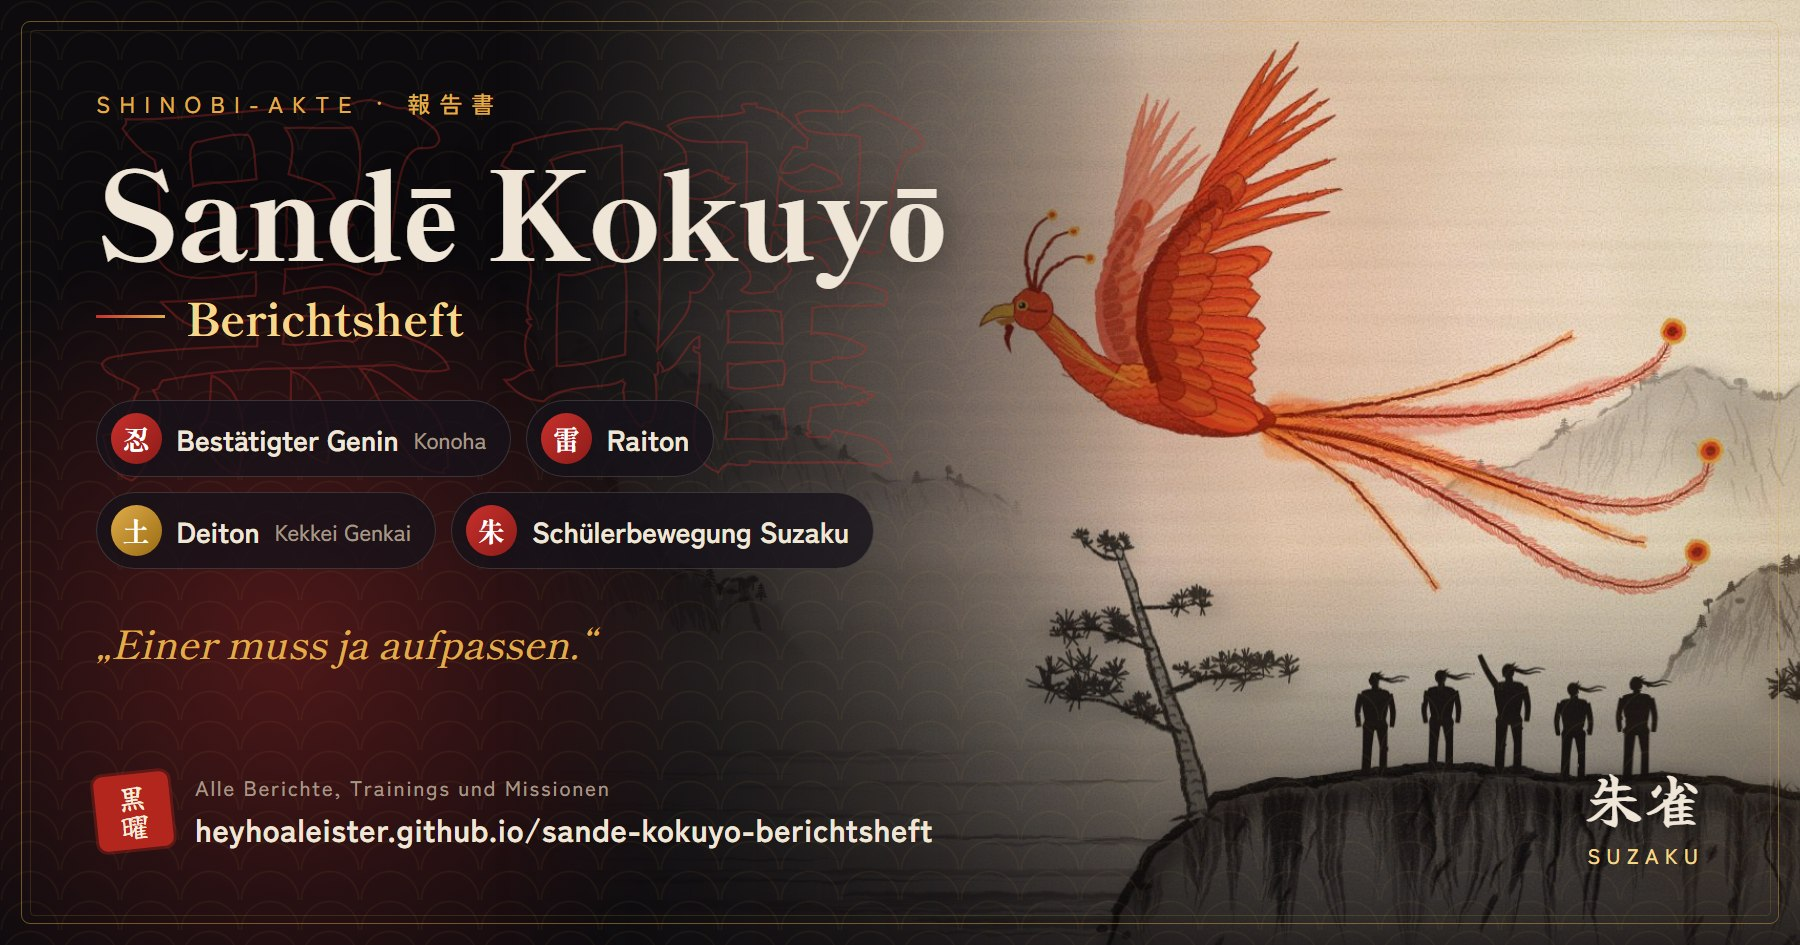
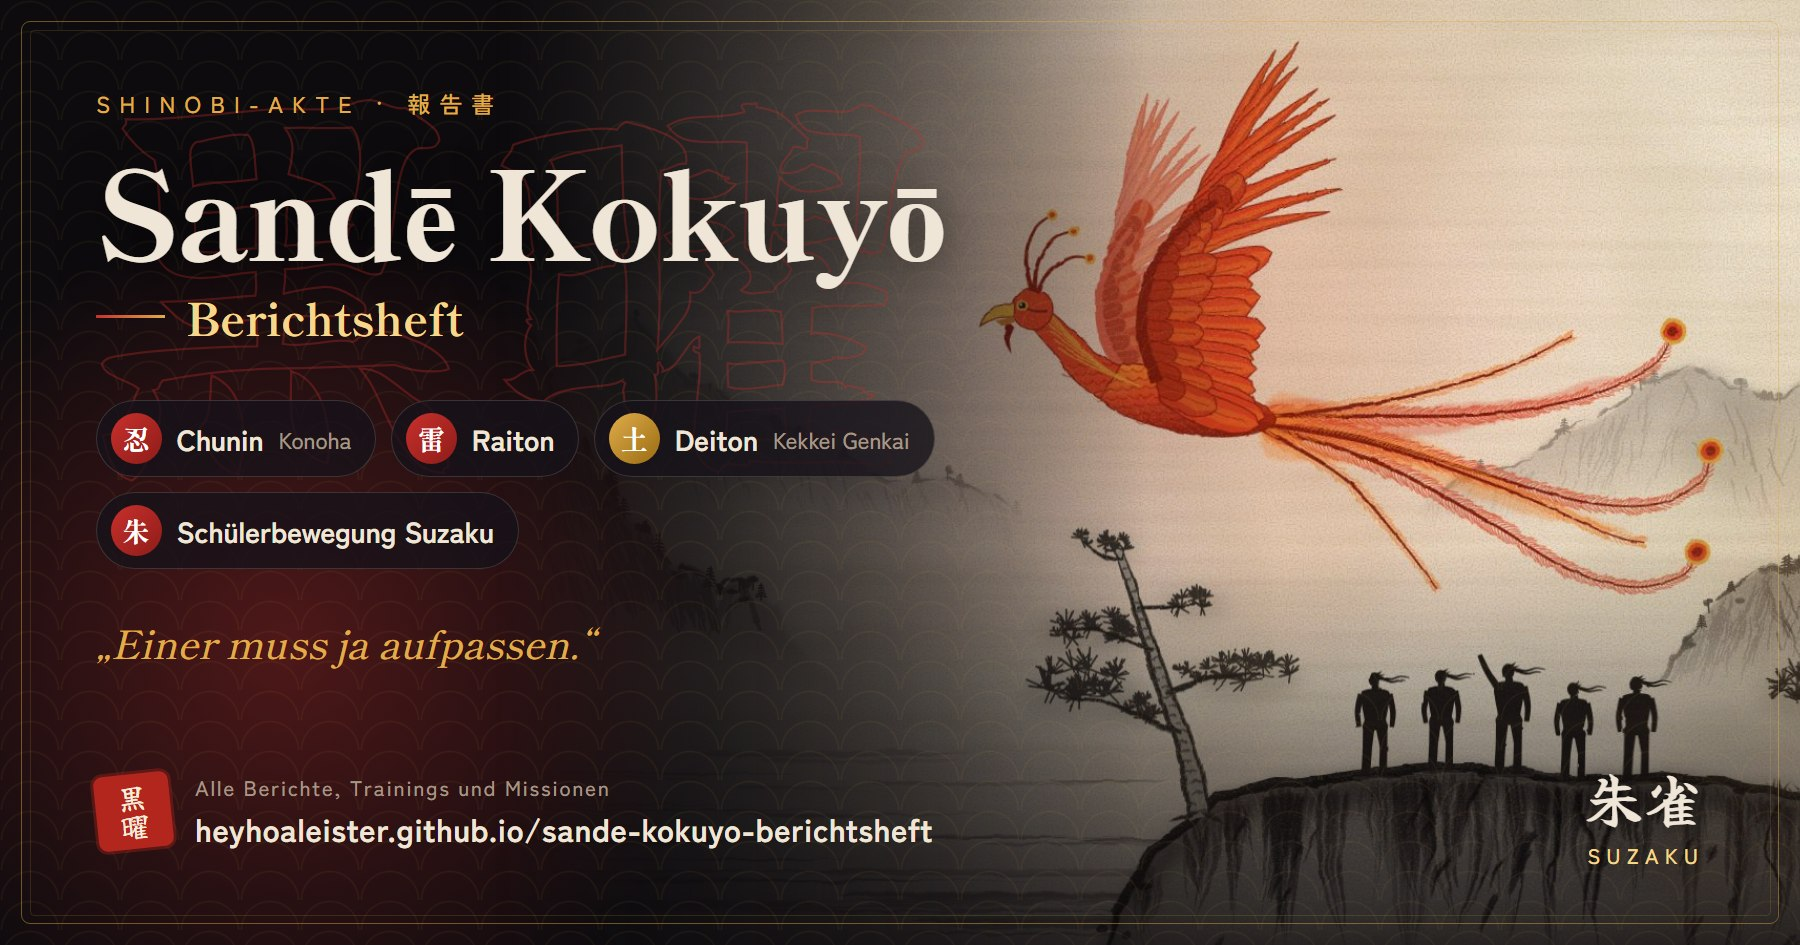
feat: Monat 5 – Ernennung zum Chunin und neues Ziel Militär
- Sechs neue Einträge für Monat 5 mit Tuschebild der Ernennung
- Rang in Profil, Linkvorschau und Karte auf Chunin geändert
- Ziel Palastwache durch den Beitritt zum Militär ersetzt

Changed region(s): [[0.0622, 0.3989, 0.5289, 0.6138]]

diff --git a/eintraege.js b/eintraege.js
@@ -6,7 +6,7 @@
 window.PROFIL = {
   "name": "Sandē Kokuyō",
   "dorf": "Konoha",
-  "rang": "Bestätigter Genin",
+  "rang": "Chunin",
   "clan": "Kein Clan – Bauernfamilie Kokuyō",
   "team": "Schülerbewegung Suzaku",
   "element": "Raiton",
@@ -17,20 +17,20 @@ window.PROFIL = {
     "Sandē Kokuyō ist auf einem kleinen Bauernhof am Rand von Konoha aufgewachsen, als eines von mehreren Geschwistern. Die Kokuyō gehören keinem bekannten Clan an – einfache Leute, die vom Land leben und zusammenhalten. Jeder musste mit anpacken, und schon früh hat Sandē gelernt, dass eine Familie nur so stark ist wie derjenige, der für sie einsteht.",
     "Als Sandē noch klein war, kamen in einem Winter Räuber auf den Hof und wollten Vorräte und Vieh mitnehmen. Sein Vater wurde dabei verletzt. Eine Patrouille aus Konoha kam dazu und hat die Räuber vertrieben. Seitdem hat Sandē großen Respekt vor den Shinobi des Dorfes.",
     "Danach hat er angefangen, nachts am Tor des Hofes Wache zu halten. Meistens ist nichts passiert, aber er hat dabei gelernt, aufmerksam zu sein und ruhig zu bleiben.",
-    "Mit den Jahren hat sich gezeigt, dass er mit Chakra umgehen kann. Sein Element ist Raiton, dazu kommt das Kekkei Genkai Deiton. Er ist an die Akademie gegangen und ist heute bestätigter Genin. Was er später genau machen will, weiß er noch nicht. Fest steht nur, dass er seine Familie und das Dorf schützen möchte."
+    "Mit den Jahren hat sich gezeigt, dass er mit Chakra umgehen kann. Sein Element ist Raiton, dazu kommt das Kekkei Genkai Deiton. Er ist an die Akademie gegangen und ist heute Chunin. Was er später genau machen will, weiß er noch nicht. Fest steht nur, dass er seine Familie und das Dorf schützen möchte."
   ],
   "ziele": [
     {
       "titel": "Körper und Geist schärfen",
-      "text": "Jeden Tag trainieren, auch wenn niemand zusieht: Taijutsu, Ausdauer, Reaktion und Disziplin. Ein Wächter muss stundenlang wach bleiben und im entscheidenden Moment sofort handeln."
+      "text": "Jeden Tag trainieren, auch wenn niemand zusieht: Taijutsu, Ausdauer, Reaktion und Disziplin. Beim Militär muss man stundenlang wach bleiben und im entscheidenden Moment sofort handeln."
     },
     {
       "titel": "Raiton und Deiton meistern",
       "text": "Raiton für schnelle, präzise Angriffe, Deiton, um Gegner festzuhalten und den Boden zu kontrollieren. Eine Kampfweise, die Angreifer aufhält und Menschen schützt, statt nur zu siegen."
     },
     {
-      "titel": "Der Palastwache beitreten",
-      "text": "Lernen, wie die Palastwache arbeitet – ihre Regeln, Abläufe und Leute. Sich durch Zuverlässigkeit, Pünktlichkeit und Haltung empfehlen und die Aufnahme schaffen."
+      "titel": "Dem Militär beitreten",
+      "text": "Lernen, wie das Militär von Konoha arbeitet – seine Regeln, Abläufe und Leute. Über ein Praktikum die Arbeit von innen kennenlernen, sich durch Zuverlässigkeit, Pünktlichkeit und Haltung empfehlen und die Aufnahme schaffen."
     },
     {
       "titel": "Für Familie und Dorf",
@@ -328,5 +328,92 @@ window.EINTRAEGE = [
     "meilenstein": true,
     "tusche": "bilder/tusche-monat4-suna.jpg",
     "tuscheText": "Kampf gegen Sunagakure vor den Toren Konohas"
+  },
+  {
+    "id": "t5-dimension",
+    "datum": "2026-11-03",
+    "titel": "Über die Dimension informiert",
+    "kategorie": "alltag",
+    "rang": "",
+    "ort": "",
+    "text": "Zuerst habe ich mich über die Dimension informiert und mit ein paar Leuten geredet. Ich wollte mir selbst ein Bild machen, statt mich nur auf das zu verlassen, was im Dorf erzählt wird.",
+    "tags": [
+      "Dimension",
+      "Kontakte"
+    ]
+  },
+  {
+    "id": "t5-polizei",
+    "datum": "2026-11-03",
+    "titel": "Bei der Polizei Bericht erstattet",
+    "kategorie": "alltag",
+    "rang": "",
+    "ort": "Polizei",
+    "text": "Danach war ich bei der Polizei und habe dort einen Bericht über eine Beschwerde erstattet, die ich hatte. Mir war wichtig, dass die Sache offiziell festgehalten ist und sich jemand darum kümmern kann.",
+    "tags": [
+      "Polizei",
+      "Bericht",
+      "Beschwerde"
+    ]
+  },
+  {
+    "id": "t5-chunin",
+    "datum": "2026-11-03",
+    "titel": "Von Kasama Senju zum Chunin ernannt",
+    "kategorie": "dienst",
+    "rang": "",
+    "ort": "",
+    "text": "Später bin ich zu Kasama Senju gegangen und habe mich wegen des Kriegs gegen Sunagakure gemeldet. Er hat mich daraufhin für meine Arbeit dort zum Chunin ernannt. Er sagte aber auch, dass das eine Ausnahme ist.\nDamit bin ich jetzt Chunin. Mir ist klar, dass das nicht der normale Weg ist und dass jetzt mehr von mir erwartet wird.",
+    "tags": [
+      "Kasama Senju",
+      "Chunin",
+      "Ernennung",
+      "Sunagakure"
+    ],
+    "meilenstein": true,
+    "tusche": "bilder/tusche-monat5-chunin.jpg",
+    "tuscheText": "Ernennung zum Chunin durch Kasama Senju"
+  },
+  {
+    "id": "t5-training",
+    "datum": "2026-11-03",
+    "titel": "Training mit den anderen",
+    "kategorie": "training",
+    "rang": "",
+    "ort": "Trainingsplatz",
+    "text": "Danach war ich mit ein paar anderen Shinobi auf dem Trainingsplatz. Zuerst haben wir in wechselnden Paaren gekämpft. Dabei habe ich den Tritt der Morgendämmerung benutzt, den ich im letzten Monat gelernt habe. Er sitzt noch nicht immer, vor allem wenn der Gegner schnell den Abstand verkürzt.\nZum Schluss haben wir Kunai aus der Bewegung geworfen. Das klappt inzwischen besser als am Anfang, aber einige Würfe lagen immer noch daneben.",
+    "tags": [
+      "Training",
+      "Taijutsu",
+      "Tritt der Morgendämmerung",
+      "Kunai"
+    ]
+  },
+  {
+    "id": "t5-tore",
+    "datum": "2026-11-03",
+    "titel": "An den Toren beim Aufräumen geholfen",
+    "kategorie": "dienst",
+    "rang": "",
+    "ort": "Tore von Konoha",
+    "text": "Anschließend sind wir zusammen zu den Toren gegangen, weil dort noch Spuren vom Kampf zu sehen waren. Wir haben geholfen, Trümmer wegzuräumen und beschädigte Balken von der Mauer wegzutragen.\nDas war einfache Arbeit, aber sie musste gemacht werden, und zu mehreren ging es schnell voran.",
+    "tags": [
+      "Tore",
+      "Aufräumen",
+      "Kameradschaft"
+    ]
+  },
+  {
+    "id": "t5-abend",
+    "datum": "2026-11-03",
+    "titel": "Abends mit den anderen zusammengesessen",
+    "kategorie": "alltag",
+    "rang": "",
+    "ort": "Konoha",
+    "text": "Am Abend haben wir noch zusammen gegessen. Wir haben darüber geredet, wie es jedem seit dem Krieg geht und was sich im Dorf verändert hat. Ich habe den anderen auch von meiner Ernennung erzählt und dazugesagt, dass sie eine Ausnahme war.",
+    "tags": [
+      "Kameradschaft",
+      "Krieg"
+    ]
   }
 ];

diff --git a/index.html b/index.html
@@ -10,7 +10,7 @@
   <meta property="og:type" content="website">
   <meta property="og:site_name" content="Shinobi-Akte">
   <meta property="og:title" content="Berichtsheft – Sandē Kokuyō">
-  <meta property="og:description" content="Bestätigter Genin aus Konoha · Raiton und Deiton · Schülerbewegung Suzaku. Alle Berichte, Trainings und Missionen.">
+  <meta property="og:description" content="Chunin aus Konoha · Raiton und Deiton · Schülerbewegung Suzaku. Alle Berichte, Trainings und Missionen.">
   <meta property="og:url" content="https://heyhoaleister.github.io/sande-kokuyo-berichtsheft/">
   <meta property="og:image" content="https://heyhoaleister.github.io/sande-kokuyo-berichtsheft/bilder/karte.jpg">
   <meta property="og:image:width" content="1800">
